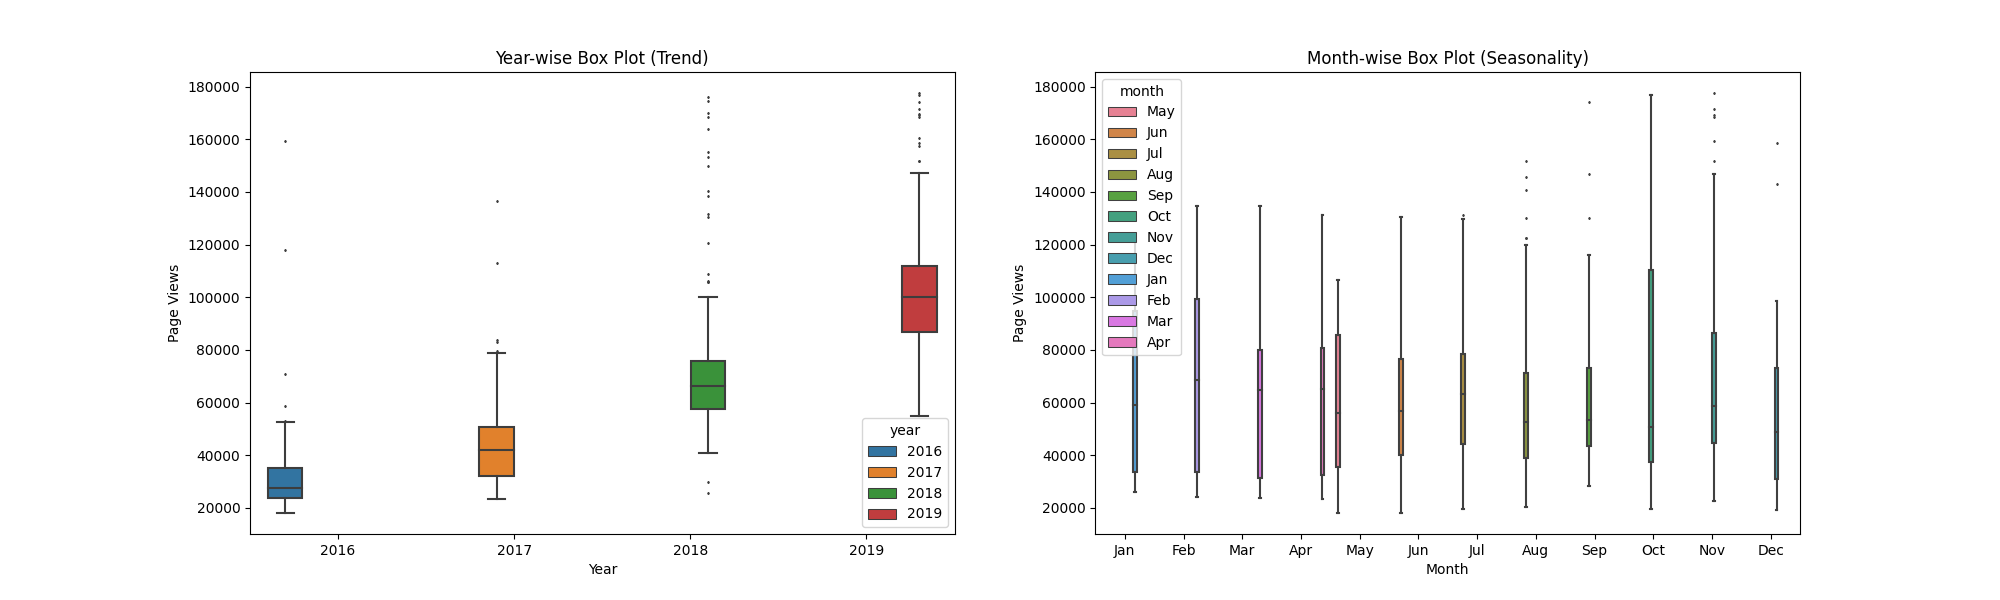
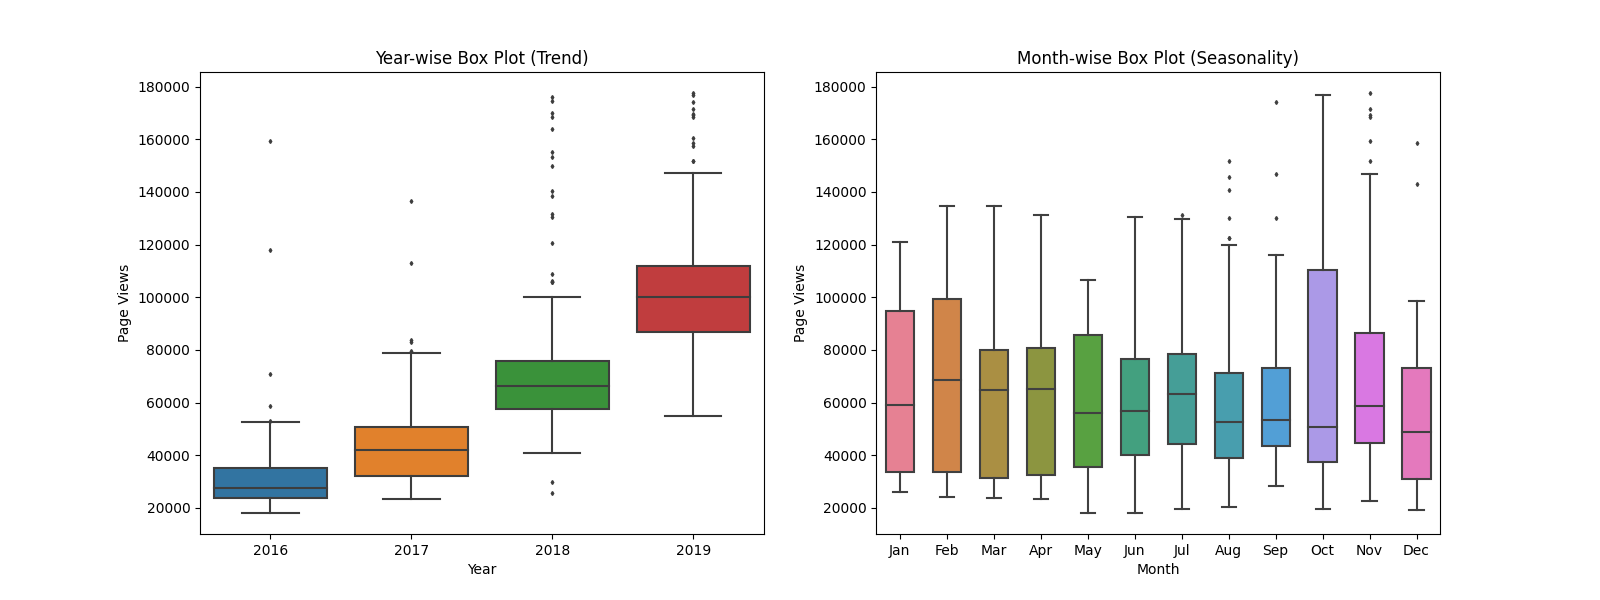
All tests pass, generated graphs look like examples. Changed numpy version to ignore error

diff --git a/time_series_visualizer.py b/time_series_visualizer.py
@@ -80,10 +80,10 @@ def draw_box_plot():
     df_box['month'] = [d.strftime('%b') for d in df_box.date]
 
     # Draw box plots (using Seaborn)
-    fig, ax = plt.subplots(nrows = 1, ncols = 2, figsize=(20,6))
-    sns.boxplot(data = df_box, x = 'year', y = 'value', ax=ax[0], hue='year', 
+    fig, ax = plt.subplots(nrows = 1, ncols = 2, figsize=(16,6))
+    sns.boxplot(data = df_box, x = 'year', y = 'value', ax=ax[0], 
                 palette=sns.color_palette(n_colors =4),
-                fliersize=1).set(
+                fliersize=2).set(
         ylabel = 'Page Views',
         xlabel = 'Year',
         title = 'Year-wise Box Plot (Trend)'
@@ -92,9 +92,9 @@ def draw_box_plot():
     months = ['Jan', 'Feb', 'Mar', 'Apr', 'May', 'Jun',
      'Jul', 'Aug', 'Sep', 'Oct', 'Nov', 'Dec']
 
-    sns.boxplot(data = df_box, x = 'month', hue='month', y='value',order = months, ax=ax[1],
-                palette=sns.color_palette(palette="husl",n_colors=12),
-                fliersize=1).set(
+    sns.boxplot(data = df_box, x = 'month', y='value',order = months, ax=ax[1],
+                palette=sns.color_palette(palette="husl",n_colors=12), width=0.6,
+                fliersize=2).set(
         ylabel = 'Page Views',
         xlabel = 'Month',
         title = 'Month-wise Box Plot (Seasonality)'
